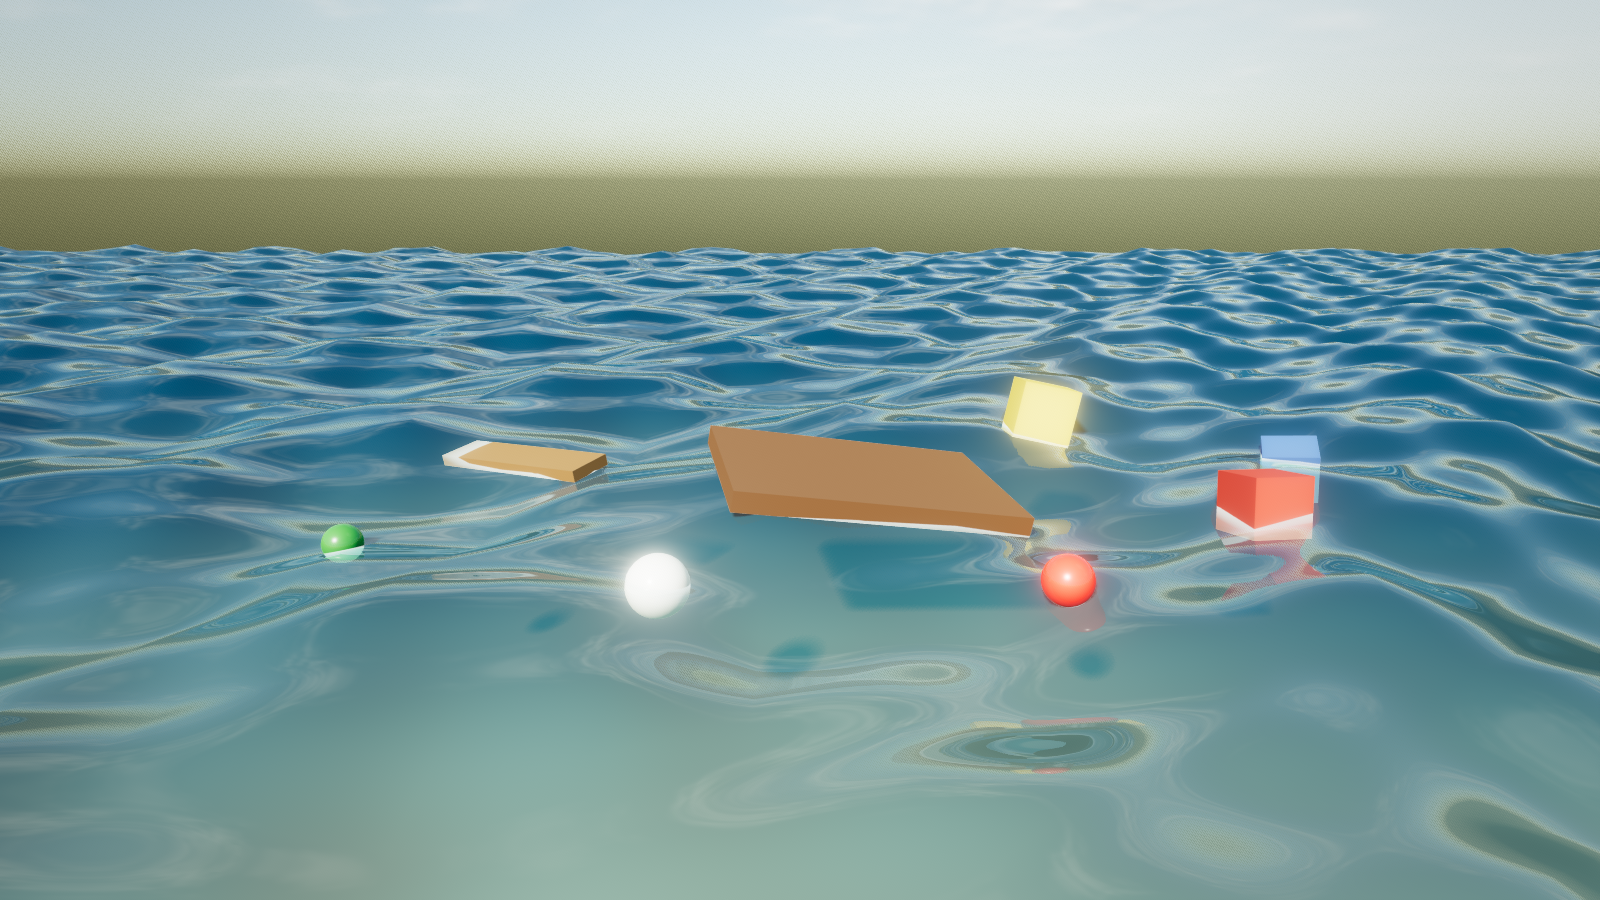
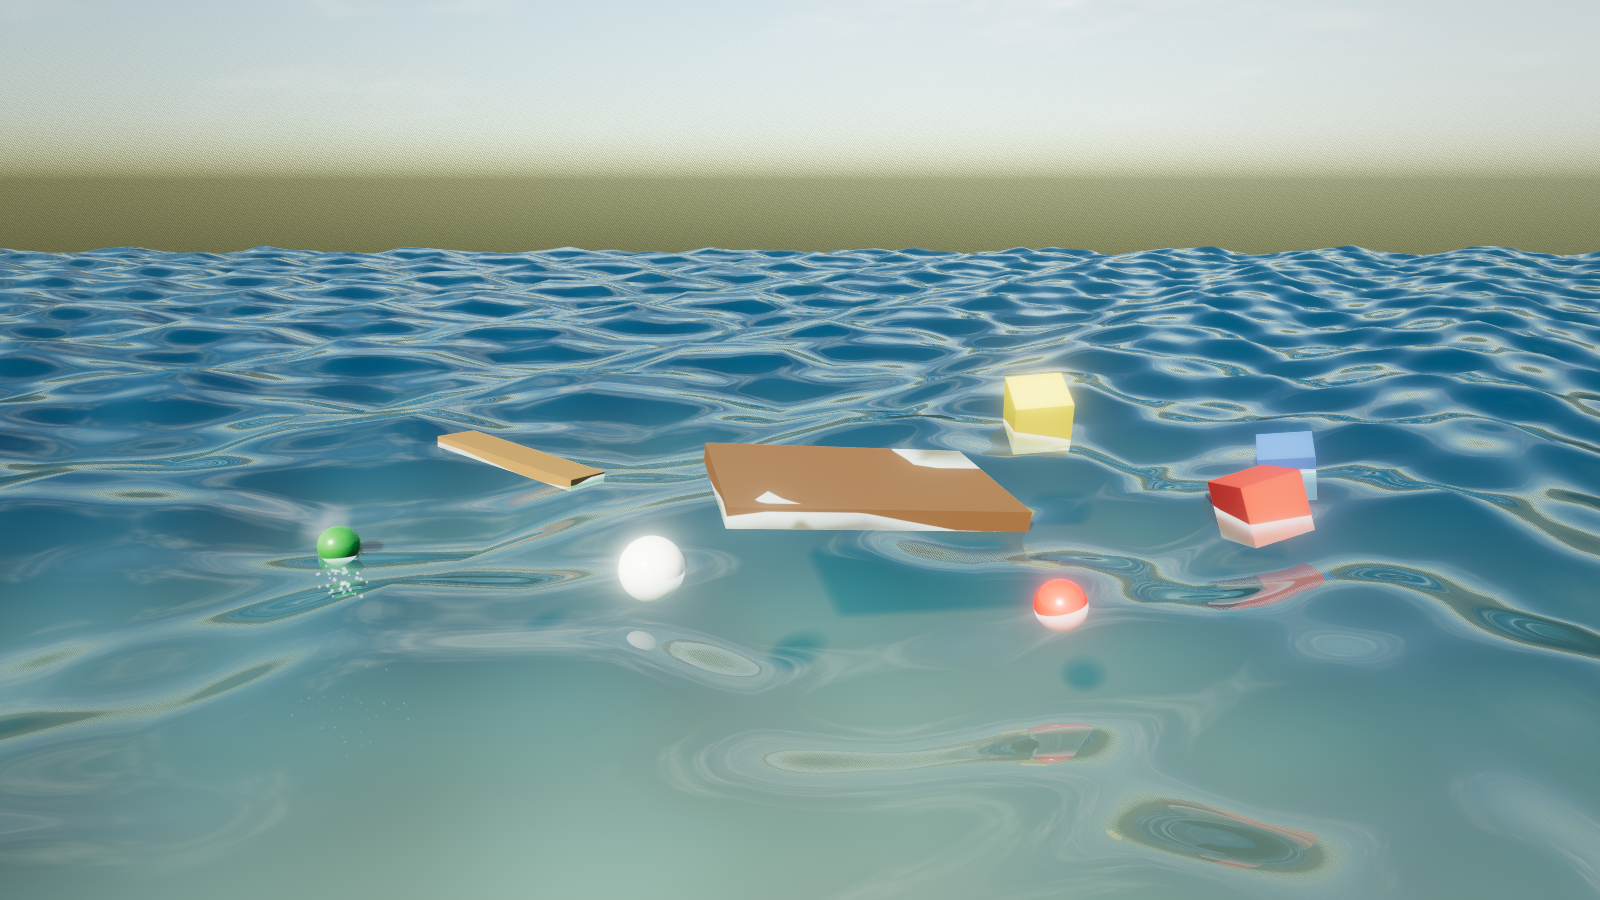
Update from the development tree

diff --git a/crates/lunaris-sim/src/floaters.rs b/crates/lunaris-sim/src/floaters.rs
@@ -6,7 +6,7 @@
 //! The cost is kept small on purpose: a world without a `Floater` pays for one empty query; a world with some builds its few water surfaces once a tick (a rectangle and a ceiling each); a body that is out of every
 //! surface's rectangle or above its highest wave is left alone after a few comparisons and writes nothing; a body deep under a flat surface takes one comparison instead of its columns; only the bodies at the
 //! surface sample columns, and a column costs one surface lookup (four sines when there are waves). Nothing is allocated per body.
-use crate::components::{AngularVelocity, Collider, Floater, PhysicsSettings, RigidBody, Transform, Velocity, Water, WaterFlow};
+use crate::components::{AngularVelocity, Collider, Floater, Lifetime, Particles, PhysicsSettings, RigidBody, Transform, Velocity, Water, WaterFlow};
 use crate::physics::Shape;
 use crate::physics_rot as rot;
 use crate::terrain::Terrains;
@@ -19,6 +19,8 @@ type V3 = [f32; 3];
 const MAX_COLUMNS: usize = 6;
 /// A body that hits the water faster than this (metres per second) makes a `splash` event.
 const SPLASH_SPEED: f32 = 1.0;
+/// The most splashes that throw up spray in one tick (a hundred crates dropped at once make the first few, not a hundred clouds).
+const MAX_FX_PER_TICK: u32 = 6;
 /// The most a single tick may add to a body's spin (radians per second), so that a stiff boat in a short wave never kicks itself over.
 const MAX_SPIN_STEP: f32 = 12.0;
 
@@ -248,6 +250,7 @@ pub fn step(world: &mut World, fields: &Terrains, dt: f32, events: &mut Vec<(Str
     let surfaces = surfaces(world, fields);
     let mut gravity: Option<V3> = None;
     let mut near: Vec<usize> = Vec::with_capacity(surfaces.len());
+    let mut fx_left = MAX_FX_PER_TICK;
     for b in &list {
         let s = [b.t.scale[0].abs(), b.t.scale[1].abs(), b.t.scale[2].abs()];
         // the body as a box (a ball and a capsule included: a capsule is a box as tall as it is and as wide as it is round)
@@ -356,8 +359,72 @@ pub fn step(world: &mut World, fields: &Terrains, dt: f32, events: &mut Vec<(Str
         }
         if hit > 0.0 {
             events.push(("splash".to_string(), b.uid, Some([b.t.pos[0], v.surface, b.t.pos[2]])));
+            if b.f.splash_fx && fx_left > 0 {
+                fx_left -= 1;
+                spray(world, [b.t.pos[0], v.surface, b.t.pos[2]], hit, half[0] + half[2], b.uid);
+            }
         }
     }
+}
+
+/// Droplets thrown up and a soft mist round a body that hit the water at `speed` (`width` metres wide): two bursts of particles that remove themselves.
+fn spray(world: &mut World, at: V3, speed: f32, width: f32, uid: u64) {
+    let seed = (uid as u32).wrapping_mul(2_654_435_761);
+    let drops = ((20.0 + speed * width * 30.0) as u32).clamp(24, 240);
+    let e = world.spawn();
+    let _ = world.insert(e, Transform { pos: at, ..Transform::default() });
+    let _ = world.insert(
+        e,
+        Particles {
+            count: drops,
+            lifetime: 1.1,
+            looping: false,
+            prewarm: false,
+            spread_time: 0.08,
+            shape: 3,
+            extent: [width * 0.4, 0.0, width * 0.4],
+            cone: 32.0,
+            speed_range: [0.8 + speed * 0.12, 1.5 + speed * 0.38],
+            gravity: [0.0, -9.8, 0.0],
+            drag: 0.2,
+            size: [0.09, 0.035],
+            size_jitter: 0.4,
+            color: [0.92, 0.97, 1.0, 0.9],
+            color_end: [0.8, 0.9, 1.0, 0.0],
+            fade_in: 0.02,
+            additive: false,
+            seed,
+            ..Particles::default()
+        },
+    );
+    let _ = world.insert(e, Lifetime { seconds: 1.6 });
+    let m = world.spawn();
+    let _ = world.insert(m, Transform { pos: at, ..Transform::default() });
+    let _ = world.insert(
+        m,
+        Particles {
+            count: (drops / 3).max(10),
+            lifetime: 1.4,
+            looping: false,
+            prewarm: false,
+            spread_time: 0.15,
+            shape: 3,
+            extent: [width * 0.3, 0.0, width * 0.3],
+            cone: 70.0,
+            speed_range: [0.3, 0.6 + speed * 0.06],
+            gravity: [0.0, 0.15, 0.0],
+            drag: 1.2,
+            size: [0.15 + width.min(2.5) * 0.12, 0.35 + width.min(2.5) * 0.3],
+            size_jitter: 0.3,
+            color: [1.0, 1.0, 1.0, 0.1],
+            color_end: [1.0, 1.0, 1.0, 0.0],
+            fade_in: 0.1,
+            additive: false,
+            seed: seed ^ 0x9e37,
+            ..Particles::default()
+        },
+    );
+    let _ = world.insert(m, Lifetime { seconds: 1.8 });
 }
 
 fn s_max(t: &Transform) -> f32 {

diff --git a/crates/lunaris-sim/src/components.rs b/crates/lunaris-sim/src/components.rs
@@ -1768,7 +1768,7 @@ component! {
     /// waves** of a `Water` sheet or a `WaterBody` (the same ripples that are drawn, `waves` 0 to 1 says how much they count), **rights itself** when it is tipped (the lift of the low side is bigger), is **carried by a
     /// `WaterFlow`** (`current` 0 to 1) and slowed by the water it moves through (`drag`, `angular_drag`: per second at full depth). `density` is in kilograms per cubic metre (500 wood, 920 ice, 1000 neutral, 2500 stone).
     /// The engine writes `submerged` (0 to 1, the share of the body under the surface) and `splash` (the speed in metres per second at which the body hit the water on this tick, otherwise 0) every tick, and the event
-    /// `splash` (on the body, at the point on the surface above it) when that is faster than 1 m/s. A body is looked at only when it is near the water: a thousand crates in a desert cost a rectangle test each.
+    /// `splash` (on the body, at the point on the surface above it) when that is faster than 1 m/s; with `splash_fx` (on by default) that also throws up spray and mist, two short-lived `Particles` entities that remove themselves after a second and a half. A body is looked at only when it is near the water: a thousand crates in a desert cost a rectangle test each.
     pub struct Floater {
         pub density: f32 = 500.0,
         pub columns: u32 = 3,
@@ -1776,6 +1776,7 @@ component! {
         pub angular_drag: f32 = 3.0,
         pub waves: f32 = 1.0,
         pub current: f32 = 1.0,
+        pub splash_fx: bool = true,
         pub submerged: f32 = 0.0,
         pub splash: f32 = 0.0,
     }

diff --git a/crates/lunaris-sim/src/floaters_tests.rs b/crates/lunaris-sim/src/floaters_tests.rs
@@ -108,20 +108,29 @@ fn a_current_carries_a_floater_and_current_zero_ignores_it() {
 }
 
 #[test]
-fn a_body_that_hits_the_water_fast_reports_a_splash_once() {
+fn a_body_that_hits_the_water_fast_reports_a_splash_once_and_throws_up_spray_that_goes_away() {
     let mut s = world(FLAT);
     spawn(&mut s, 10, r#"{"Transform":{"pos":[3,6,0]},"Velocity":{},"Collider":{"shape":0,"size":[1,1,1]},"RigidBody":{"mass":1,"restitution":0},"Floater":{"density":500}}"#);
-    let mut splashes = Vec::new();
-    for _ in 0..240 {
+    let clouds = |s: &mut Sim| {
+        let mut n = 0;
+        let _ = s.world.for_each::<(&components::Particles,), _>(|_, _| n += 1);
+        n
+    };
+    let (mut splashes, mut peak) = (Vec::new(), 0);
+    for _ in 0..300 {
         s.step();
         let f = floater(&s, 10);
         if f.splash > 0.0 {
             splashes.push((f.splash, pos(&s, 10)));
         }
+        peak = peak.max(clouds(&mut s));
     }
     assert_eq!(splashes.len(), 1, "{splashes:?}");
     // 5.5 m of free fall is about 10 m/s
     assert!(splashes[0].0 > 8.0 && splashes[0].0 < 12.5, "{splashes:?}");
+    // the spray is two particle entities (droplets and mist) that are gone again a couple of seconds later
+    assert_eq!(peak, 2);
+    assert_eq!(clouds(&mut s), 0, "gone again");
 }
 
 #[test]

diff --git a/tools/build_water_physics.py b/tools/build_water_physics.py
@@ -78,7 +78,7 @@ body([-4.0, 10.0, 1.5], [0.9, 0.9, 0.9], "sphere", [0.9, 0.9, 0.85, 1.0], 20, 60
 body([1.5, 14.0, 2.0], [0.7, 0.7, 0.7], "sphere", [0.85, 0.15, 0.15, 1.0], 10, 250, 1, 0, 0.25)
 body([-9.0, 5.0, 0.0], [0.6, 0.6, 0.6], "sphere", [0.15, 0.55, 0.2, 1.0], 6, 150, 1, 0, 0.25)
 sp({"Transform": {"pos": [-1.0, 5.2, 12.5], "rot": quat(0.0, -17.0)}, "Camera": {"fov_y": 54, "active": True}})
-for name, ticks in (("drop", 36), ("settled", 220), ("later", 160)):
+for name, ticks in (("drop", 36), ("spray", 50), ("settled", 150), ("later", 160)):
     call("step", {"ticks": ticks})
     r = call("render", {"quality": "ultra", "width": W, "height": H, "path": f"floaters_{name}.png", "image": False})
     print(name, r.get("renderer"), r.get("warnings"), (r.get("timing_ms") or {}).get("total"))

diff --git a/docs/TERRAIN.md b/docs/TERRAIN.md
@@ -185,7 +185,7 @@ What it does, every tick, before the physics step:
 * **It rights itself.** A tipped body has more of its low side under, so the lift of that side is larger and turns it back; `angular_drag` (per second at full depth) damps the rocking. A wide plank is stable, a tall narrow box tips over and floats on its side, as in the real world.
 * **Currents.** Put a **`WaterFlow {velocity: [x, z]}`** on the water's entity (metres per second): bodies on it are carried at that speed, and `Floater.current` (0 to 1) says how much. A body held still feels the push as drag.
 * **Drag.** The water slows a body (in proportion to how much of it is under) by `drag` per second, plus a part that grows with its speed through the water, so something that dives in fast stops without a bounce.
-* **Splash.** `Floater.splash` is the speed (m/s) at which the body hit the water on this tick (0 on every other tick), and the event `splash` (`on_event`, with the point on the surface above the body) is made when that is faster than 1 m/s: particles, a sound. `Floater.submerged` is the share (0 to 1) of the body under the surface: foam, wet-looking materials, engine sounds.
+* **Splash.** `Floater.splash` is the speed (m/s) at which the body hit the water on this tick (0 on every other tick), and the event `splash` (`on_event`, with the point on the surface above the body) is made when that is faster than 1 m/s: particles, a sound. With `splash_fx` (on by default) the engine also throws up the spray itself: droplets and a soft mist, two `Particles` bursts that remove themselves after a second and a half (at most six splashes a tick make one, so a hundred crates dropped at once do not make a hundred clouds); `splash_fx: false` leaves the effect to you. `Floater.submerged` is the share (0 to 1) of the body under the surface: foam, wet-looking materials, engine sounds.
 * A body is lifted by gravity times `1000 / density`, with the body's `gravity_scale`; a density of 500 floats half under, 250 a quarter, 1000 awash, above 1000 sinks slowly.
 
 **Cost.** A world without a `Floater` pays for one empty query. With some, the water surfaces are prepared once a tick; a body outside every surface's rectangle or above its highest wave is dropped after a few comparisons and writes nothing; one deep under a flat surface takes one comparison; only bodies at the surface sample their columns (one lookup and, with waves, four cheap sines each; the sine is a polynomial, so every machine finds the same bits). On a Linux test machine: 2000 crates away from the water 0.04 ms a tick, 2000 planks of 9 columns in a rough sea about 1 ms a tick (`cargo test --release -p lunaris-sim floaters_cost -- --ignored --nocapture`). Nothing is allocated per body, and the result is deterministic.
